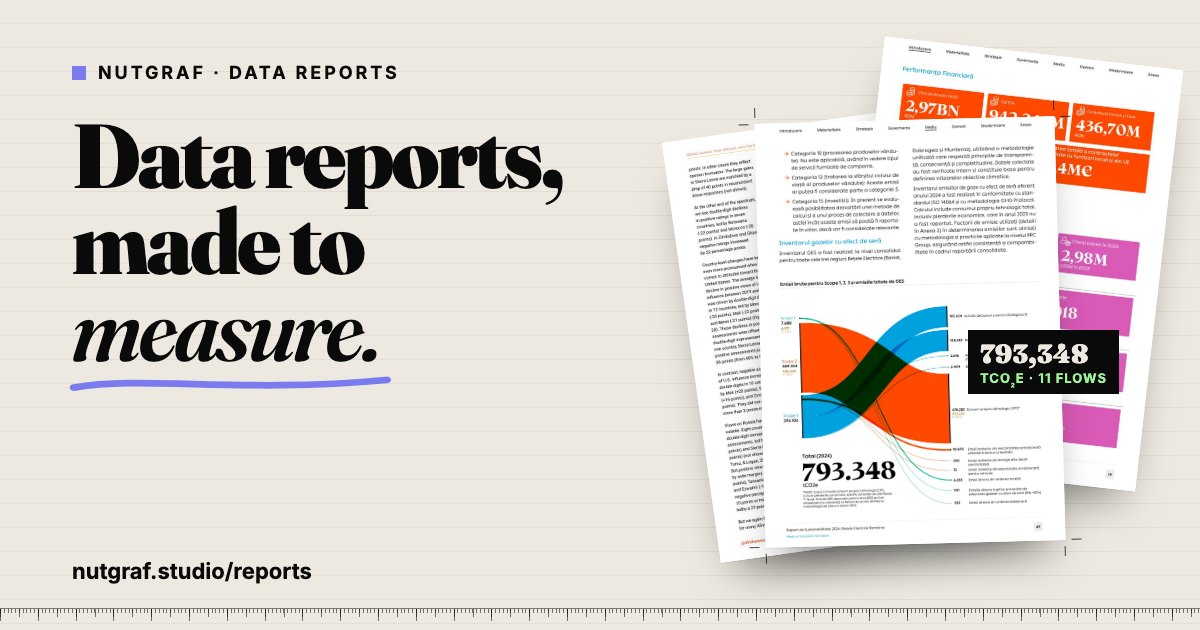
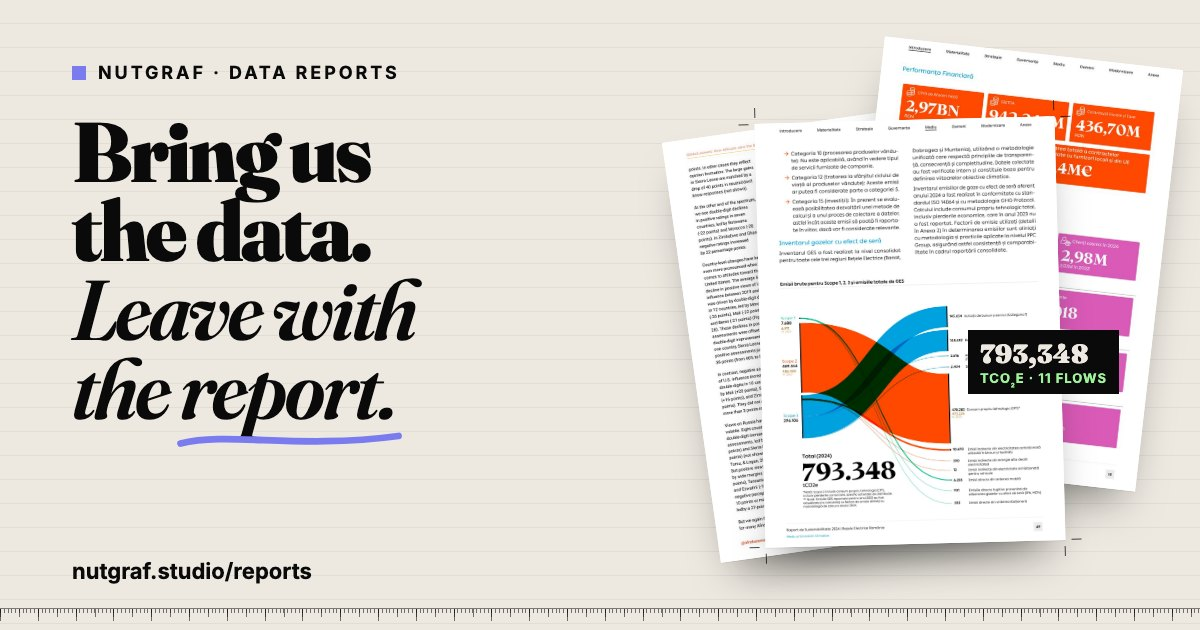
Reports page headline: "Bring us the data. Leave with the report."
Commission a report becomes the primary button. The closing section now
carries the state-of-the-art data design and bespoke craft line, so it no
longer repeats the hero's within-a-week promise. Title and share card
follow the new headline (og-image ?v=2).

Changed region(s): [[0.0617, 0.181, 0.4933, 0.7238], [0.3392, 0.4222, 0.37, 0.4524]]

diff --git a/reports/index.html b/reports/index.html
@@ -25,7 +25,7 @@ setTimeout(function () {
 }, 4000);
 </script>
 
-<title>Data Reports, Made to Measure — Nutgraf</title>
+<title>Data Reports and Dashboards — Nutgraf</title>
 <meta name="description" content="Nutgraf designs data-intensive reports, from flagship studies to ESG disclosures, and turns PDF reports into interactive dashboards. See Afrobarometer’s Beyond borders and Rețele Electrice’s 2024 sustainability report.">
 <!-- Unlisted, for sharing internally: kept out of search engines, the
      sitemap, llms.txt and every menu. Not blocked in robots.txt, or
@@ -46,21 +46,21 @@ setTimeout(function () {
 <!-- Open Graph -->
 <meta property="og:type" content="website">
 <meta property="og:site_name" content="Nutgraf.studio">
-<meta property="og:title" content="Data Reports, Made to Measure — Nutgraf">
+<meta property="og:title" content="Data Reports and Dashboards — Nutgraf">
 <meta property="og:description" content="Data-intensive reports with state-of-the-art data design and bespoke craft, and PDF reports turned into interactive dashboards.">
 <meta property="og:url" content="https://nutgraf.studio/reports/">
-<meta property="og:image" content="https://nutgraf.studio/reports/og-image.jpg?v=1">
+<meta property="og:image" content="https://nutgraf.studio/reports/og-image.jpg?v=2">
 <meta property="og:image:width" content="1200">
 <meta property="og:image:height" content="630">
-<meta property="og:image:alt" content="Data reports, made to measure: page 49 of the Rețele Electrice sustainability report, an emissions Sankey designed by Nutgraf.">
+<meta property="og:image:alt" content="Bring us the data, leave with the report: page 49 of the Rețele Electrice sustainability report, an emissions Sankey designed by Nutgraf.">
 <meta property="og:locale" content="en_GB">
 
 <!-- Twitter Card -->
 <meta name="twitter:card" content="summary_large_image">
-<meta name="twitter:title" content="Data Reports, Made to Measure — Nutgraf">
+<meta name="twitter:title" content="Data Reports and Dashboards — Nutgraf">
 <meta name="twitter:description" content="Data-intensive reports with state-of-the-art data design and bespoke craft, and PDF reports turned into interactive dashboards.">
-<meta name="twitter:image" content="https://nutgraf.studio/reports/og-image.jpg?v=1">
-<meta name="twitter:image:alt" content="Data reports, made to measure: page 49 of the Rețele Electrice sustainability report, an emissions Sankey designed by Nutgraf.">
+<meta name="twitter:image" content="https://nutgraf.studio/reports/og-image.jpg?v=2">
+<meta name="twitter:image:alt" content="Bring us the data, leave with the report: page 49 of the Rețele Electrice sustainability report, an emissions Sankey designed by Nutgraf.">
 
 <!-- WebPage entity, tied to the site-wide Organization defined on the
      home page; the two showcased reports are listed as mentions. -->
@@ -70,7 +70,7 @@ setTimeout(function () {
   "@type": "WebPage",
   "@id": "https://nutgraf.studio/reports/#webpage",
   "url": "https://nutgraf.studio/reports/",
-  "name": "Data Reports, Made to Measure — Nutgraf",
+  "name": "Data Reports and Dashboards — Nutgraf",
   "description": "Nutgraf designs data-intensive reports, from flagship studies to ESG disclosures, and turns PDF reports into interactive dashboards connected to their datasets.",
   "inLanguage": "en-GB",
   "isPartOf": { "@type": "WebSite", "@id": "https://nutgraf.studio/#website", "name": "Nutgraf.studio", "url": "https://nutgraf.studio/" },
@@ -409,13 +409,13 @@ h1 em, h2 em, h3 em { font-style: italic; font-weight: 600; }
   background: var(--violet);
 }
 .hero h1 {
-  font-size: clamp(3rem, 8.4vw, 6.75rem);
+  /* four set lines: "Bring us / the data. / Leave with / the report." */
+  font-size: clamp(2.75rem, 7vw, 6rem);
   line-height: 0.98;
   letter-spacing: -0.03em;
-  max-width: 9ch;
 }
 .hero-line { display: block; overflow: hidden; padding-bottom: 0.1em; margin-bottom: -0.1em; }
-/* room for the marker underline under "measure." */
+/* room for the marker underline under "report." */
 .hero-line:last-child { padding-bottom: 0.4em; margin-bottom: -0.4em; }
 .hero-line > span { display: inline-block; }
 .hero h1 em { padding-right: 0.06em; }
@@ -465,6 +465,7 @@ h1 em, h2 em, h3 em { font-style: italic; font-weight: 600; }
 .js .loaded .hero-line > span { transform: none; transition: transform 1s var(--ease-out); }
 .js .loaded .hero-line:nth-child(2) > span { transition-delay: 0.08s; }
 .js .loaded .hero-line:nth-child(3) > span { transition-delay: 0.16s; }
+.js .loaded .hero-line:nth-child(4) > span { transition-delay: 0.24s; }
 .js .loaded .kicker, .js .loaded .hero-sub, .js .loaded .hero-actions {
   opacity: 1; transform: none;
   transition: opacity 0.8s ease, transform 0.8s var(--ease-out);
@@ -598,7 +599,7 @@ h1 em, h2 em, h3 em { font-style: italic; font-weight: 600; }
 .colorbar span.sw { display: flex; }
 .colorbar i { width: 0.875rem; height: 0.875rem; display: block; }
 
-/* the ruler: "made to measure", 1 mm ticks along the hero's foot */
+/* the ruler: 1 mm ticks along the hero's foot, as on a proof */
 .ruler {
   position: absolute;
   left: 0;
@@ -1439,14 +1440,15 @@ html:not(.js) .reveal { opacity: 1; transform: none; }
     <div class="hero-copy">
       <span class="kicker">Data reports · Flagship publications</span>
       <h1 id="hero-heading">
-        <span class="hero-line"><span>Data reports,</span></span>
-        <span class="hero-line"><span>made to</span></span>
-        <span class="hero-line"><span><em class="fx">measure.<svg class="fx-underline-svg" viewBox="0 0 300 40" preserveAspectRatio="none" aria-hidden="true"><path d="M6 26 C 70 10, 160 34, 294 16"/></svg></em></span></span>
+        <span class="hero-line"><span>Bring us</span></span>
+        <span class="hero-line"><span>the data.</span></span>
+        <span class="hero-line"><span><em>Leave with</em></span></span>
+        <span class="hero-line"><span><em>the <span class="fx">report.<svg class="fx-underline-svg" viewBox="0 0 300 40" preserveAspectRatio="none" aria-hidden="true"><path d="M6 26 C 70 10, 160 34, 294 16"/></svg></span></em></span></span>
       </h1>
-      <p class="hero-sub">We design data-intensive reports, from flagship studies to ESG disclosures, with state-of-the-art data design and bespoke craft: every chart made for its finding, every page made for its reader.</p>
+      <p class="hero-sub">Survey rounds, spreadsheets, ESG disclosures: we turn them into a flagship report your board, funders and press will read. Send us the brief and we’ll come back within a week with a page plan, a chart system and a timeline.</p>
       <div class="hero-actions">
-        <a class="btn" href="#flagship">See the reports</a>
-        <a class="btn btn-ghost" href="#contact">Commission a report</a>
+        <a class="btn" href="#contact">Commission a report</a>
+        <a class="btn btn-ghost" href="#flagship">See the reports</a>
       </div>
     </div>
 
@@ -1896,7 +1898,7 @@ html:not(.js) .reveal { opacity: 1; transform: none; }
 <section class="cta" id="contact" aria-labelledby="cta-heading">
   <div class="wrap reveal">
     <h2 id="cta-heading">Got a report full of numbers? <em>Let’s make it read.</em></h2>
-    <p>Send us the brief, the dataset or last year’s PDF. We’ll come back within a week with a page plan, a chart system and a timeline.</p>
+    <p>State-of-the-art data design, bespoke craft, every number checked. A brief, a dataset or last year’s PDF is all we need to start.</p>
     <div class="cta-actions">
       <a class="btn" href="mailto:hello@nutgraf.studio?subject=Report%20enquiry">Commission a report</a>
       <a class="btn btn-ghost" href="mailto:hello@nutgraf.studio?subject=Dashboard%20enquiry">Ask about dashboards</a>
